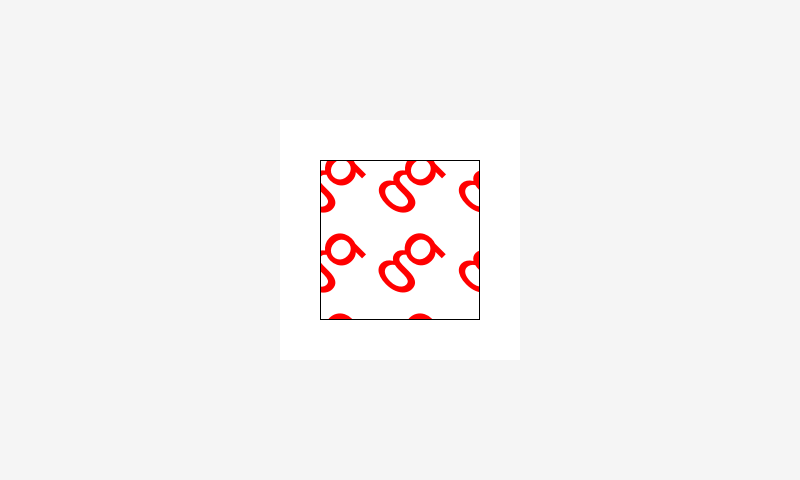
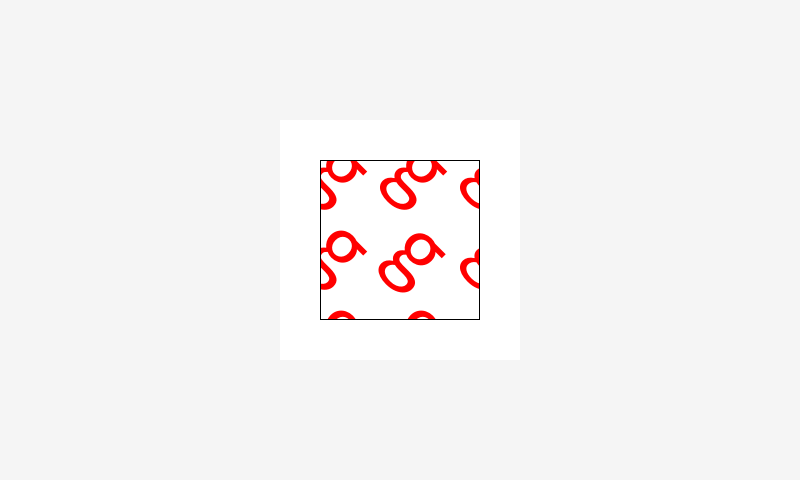
fix(vg_lite): fix the missing handling of rotated vector fonts g->ofs_x (#9519)

diff --git a/src/draw/vg_lite/lv_draw_vg_lite_label.c b/src/draw/vg_lite/lv_draw_vg_lite_label.c
@@ -469,7 +469,7 @@ static void draw_letter_outline(lv_draw_task_t * t, const lv_draw_glyph_dsc_t * 
          */
         vg_lite_matrix_t internal_matrix;
         vg_lite_identity(&internal_matrix);
-        const float pivot_x = dsc->pivot.x / scale;
+        const float pivot_x = (dsc->pivot.x + dsc->g->ofs_x) / scale;
         const float pivot_y = dsc->g->box_h + dsc->g->ofs_y;
         vg_lite_translate(pivot_x, pivot_y, &internal_matrix);
         vg_lite_rotate(dsc->rotation / 10.0f, &internal_matrix);
